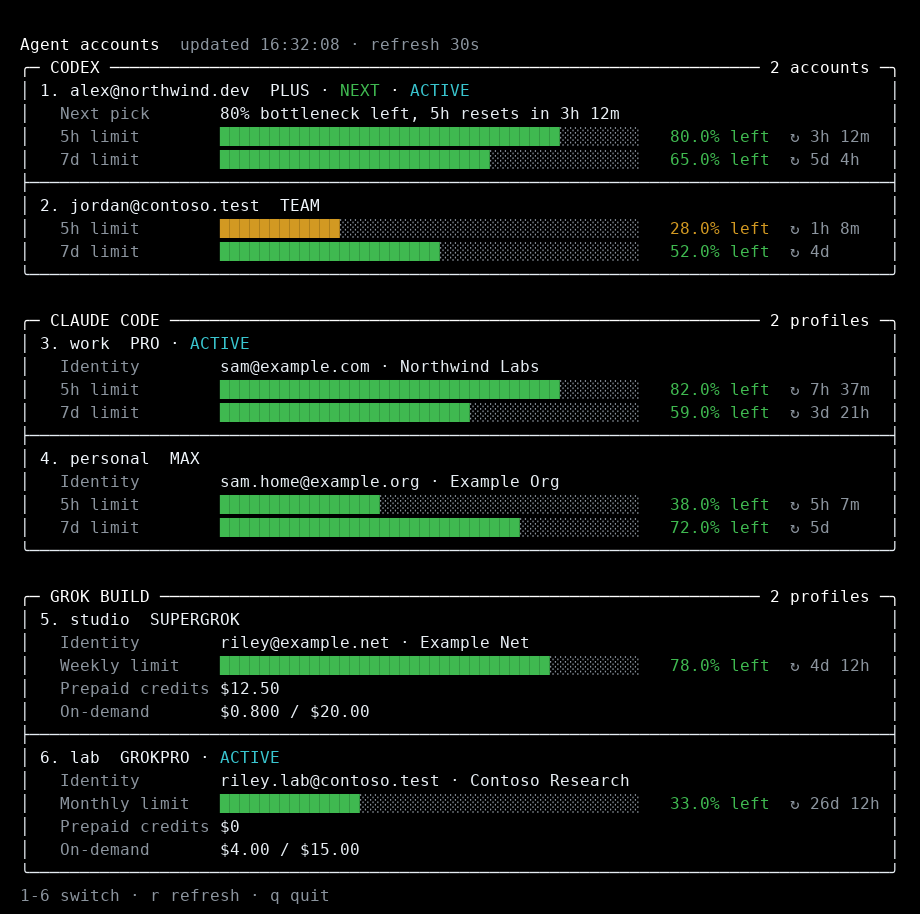
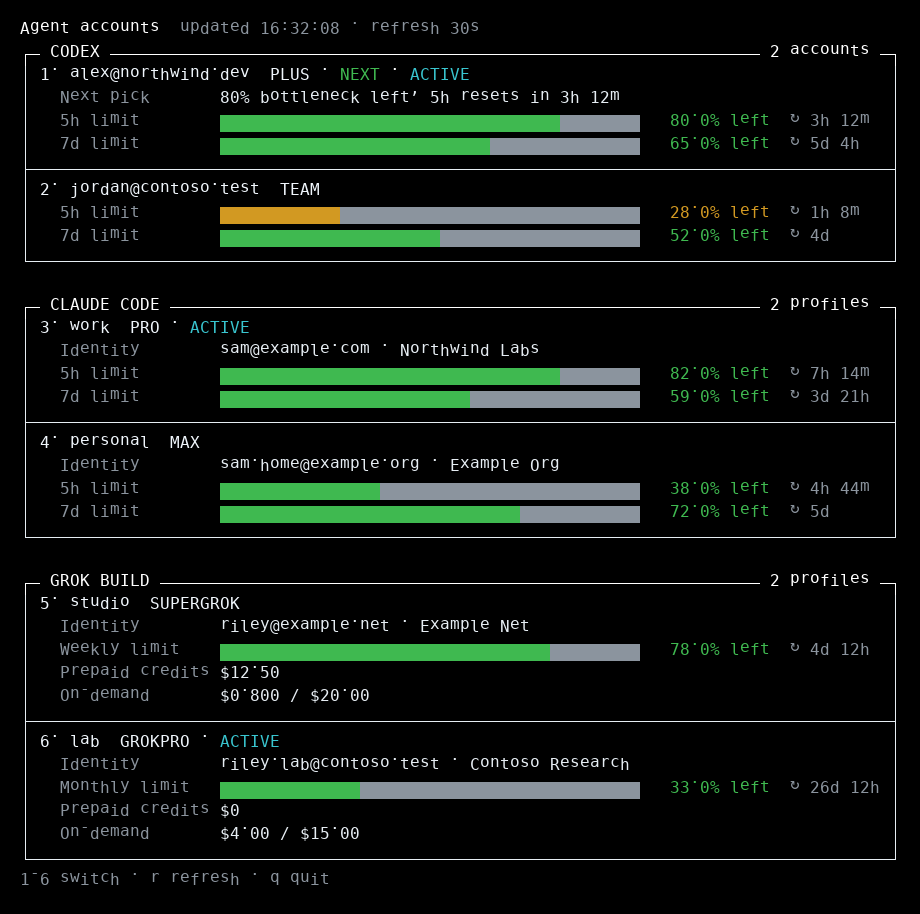
Align quota bars with a uniform block glyph
Fill and empty cells now share one character so every bar has the same
visual width across accounts and providers. Screenshots paint those
cells as rectangles and box drawing as a line grid.

diff --git a/src/display.ts b/src/display.ts
@@ -112,12 +112,19 @@ function statusColor(remainingPercent: number): string {
   return GREEN;
 }
 
-/** Render a quota bar whose filled portion represents quota remaining. */
+/**
+ * Render a quota bar whose filled portion represents quota remaining.
+ * Fill and empty use the same glyph so every bar has the same visual width;
+ * without color the empty cells fall back to a lighter shade.
+ */
 function renderBar(usedPercent: number, width: number): string {
   const remaining = Math.max(0, Math.min(100, 100 - usedPercent));
   const filled = Math.round((remaining / 100) * Math.max(0, width));
   const empty = Math.max(0, width - filled);
-  return `${statusColor(remaining)}${"█".repeat(filled)}${DIM}${"░".repeat(empty)}${RESET}`;
+  const head = "█".repeat(filled);
+  const tail = (COLOR_ENABLED ? "█" : "░").repeat(empty);
+  if (!COLOR_ENABLED) return `${head}${tail}`;
+  return `${statusColor(remaining)}${head}${RESET}${DIM}${tail}${RESET}`;
 }
 
 interface QuotaRow {
@@ -141,10 +148,10 @@ function quotaBarWidth(contentWidth: number, labelWidth: number, resetWidth: num
 
 function measureLayout(labels: string[], resets: (string | undefined)[], width: number): ColumnLayout {
   let labelWidth = 8;
-  for (const label of labels) labelWidth = Math.max(labelWidth, label.length);
+  for (const label of labels) labelWidth = Math.max(labelWidth, visibleLength(label));
   labelWidth = Math.min(labelWidthCap(width), labelWidth);
   let resetWidth = 0;
-  for (const reset of resets) resetWidth = Math.max(resetWidth, resetLabel(reset).length);
+  for (const reset of resets) resetWidth = Math.max(resetWidth, visibleLength(resetLabel(reset)));
   const contentWidth = Math.max(8, width - 4);
   if (quotaBarWidth(contentWidth, labelWidth, resetWidth) < 4) resetWidth = 0;
   return { labelWidth, resetWidth };
@@ -153,14 +160,14 @@ function measureLayout(labels: string[], resets: (string | undefined)[], width: 
 function printQuota(frame: Frame, row: QuotaRow, layout: ColumnLayout): void {
   const contentWidth = frame.width - 4;
   const remaining = Math.max(0, 100 - row.usedPercent);
-  const displayLabel = row.label.length > layout.labelWidth ? "Usage" : row.label;
-  if (row.label.length > layout.labelWidth) printDetail(frame, "Limit", row.label, layout);
+  const displayLabel = visibleLength(row.label) > layout.labelWidth ? "Usage" : row.label;
+  if (visibleLength(row.label) > layout.labelWidth) printDetail(frame, "Limit", row.label, layout);
   const prefix = `  ${fitLabel(displayLabel, layout.labelWidth)} `;
   const percent = `${remaining.toFixed(1).padStart(5)}% left`;
-  const barWidth = Math.max(3, quotaBarWidth(contentWidth, layout.labelWidth, layout.resetWidth));
   const reset = layout.resetWidth > 0
-    ? `${" ".repeat(RESET_GAP)}${resetLabel(row.resetsIn).padEnd(layout.resetWidth)}`
+    ? `${" ".repeat(RESET_GAP)}${padVisible(resetLabel(row.resetsIn), layout.resetWidth)}`
     : "";
+  const barWidth = Math.max(3, contentWidth - visibleLength(prefix) - BAR_GAP - visibleLength(percent) - visibleLength(reset));
   frame.content(
     `${DIM}${prefix}${RESET}${renderBar(row.usedPercent, barWidth)}${" ".repeat(BAR_GAP)}${statusColor(remaining)}${percent}${RESET}${DIM}${reset}${RESET}`,
   );

diff --git a/dist/display.js b/dist/display.js
@@ -82,12 +82,20 @@ function statusColor(remainingPercent) {
         return YELLOW;
     return GREEN;
 }
-/** Render a quota bar whose filled portion represents quota remaining. */
+/**
+ * Render a quota bar whose filled portion represents quota remaining.
+ * Fill and empty use the same glyph so every bar has the same visual width;
+ * without color the empty cells fall back to a lighter shade.
+ */
 function renderBar(usedPercent, width) {
     const remaining = Math.max(0, Math.min(100, 100 - usedPercent));
     const filled = Math.round((remaining / 100) * Math.max(0, width));
     const empty = Math.max(0, width - filled);
-    return `${statusColor(remaining)}${"█".repeat(filled)}${DIM}${"░".repeat(empty)}${RESET}`;
+    const head = "█".repeat(filled);
+    const tail = (COLOR_ENABLED ? "█" : "░").repeat(empty);
+    if (!COLOR_ENABLED)
+        return `${head}${tail}`;
+    return `${statusColor(remaining)}${head}${RESET}${DIM}${tail}${RESET}`;
 }
 function resetLabel(resetsIn) {
     return resetsIn ? `↻ ${resetsIn}` : "";
@@ -102,11 +110,11 @@ function quotaBarWidth(contentWidth, labelWidth, resetWidth) {
 function measureLayout(labels, resets, width) {
     let labelWidth = 8;
     for (const label of labels)
-        labelWidth = Math.max(labelWidth, label.length);
+        labelWidth = Math.max(labelWidth, visibleLength(label));
     labelWidth = Math.min(labelWidthCap(width), labelWidth);
     let resetWidth = 0;
     for (const reset of resets)
-        resetWidth = Math.max(resetWidth, resetLabel(reset).length);
+        resetWidth = Math.max(resetWidth, visibleLength(resetLabel(reset)));
     const contentWidth = Math.max(8, width - 4);
     if (quotaBarWidth(contentWidth, labelWidth, resetWidth) < 4)
         resetWidth = 0;
@@ -115,15 +123,15 @@ function measureLayout(labels, resets, width) {
 function printQuota(frame, row, layout) {
     const contentWidth = frame.width - 4;
     const remaining = Math.max(0, 100 - row.usedPercent);
-    const displayLabel = row.label.length > layout.labelWidth ? "Usage" : row.label;
-    if (row.label.length > layout.labelWidth)
+    const displayLabel = visibleLength(row.label) > layout.labelWidth ? "Usage" : row.label;
+    if (visibleLength(row.label) > layout.labelWidth)
         printDetail(frame, "Limit", row.label, layout);
     const prefix = `  ${fitLabel(displayLabel, layout.labelWidth)} `;
     const percent = `${remaining.toFixed(1).padStart(5)}% left`;
-    const barWidth = Math.max(3, quotaBarWidth(contentWidth, layout.labelWidth, layout.resetWidth));
     const reset = layout.resetWidth > 0
-        ? `${" ".repeat(RESET_GAP)}${resetLabel(row.resetsIn).padEnd(layout.resetWidth)}`
+        ? `${" ".repeat(RESET_GAP)}${padVisible(resetLabel(row.resetsIn), layout.resetWidth)}`
         : "";
+    const barWidth = Math.max(3, contentWidth - visibleLength(prefix) - BAR_GAP - visibleLength(percent) - visibleLength(reset));
     frame.content(`${DIM}${prefix}${RESET}${renderBar(row.usedPercent, barWidth)}${" ".repeat(BAR_GAP)}${statusColor(remaining)}${percent}${RESET}${DIM}${reset}${RESET}`);
     if (layout.resetWidth === 0 && row.resetsIn) {
         printDetail(frame, "", `↻ resets in ${row.resetsIn}`, layout);

diff --git a/scripts/ansi-to-png.py b/scripts/ansi-to-png.py
@@ -30,6 +30,32 @@ SGR_COLOR = {
     33: "yellow",
     36: "cyan",
     37: "white",
+    90: "dim",
+}
+
+# Same-sized cells for every density so quota bars share left and right edges.
+BLOCK_DENSITY = {
+    "█": 1.0,
+    "▓": 0.75,
+    "▒": 0.45,
+    "░": 0.22,
+}
+
+# Light/heavy box drawing mapped onto a cell-centered line grid.
+BOX_KIND = {
+    "─": "h",
+    "━": "h",
+    "│": "v",
+    "┃": "v",
+    "╭": "tl",
+    "╮": "tr",
+    "╰": "bl",
+    "╯": "br",
+    "├": "vr",
+    "┤": "vl",
+    "┬": "hb",
+    "┴": "ht",
+    "┼": "x",
 }
 
 
@@ -75,30 +101,85 @@ def cell_color(style: dict) -> tuple[int, int, int, int]:
     return PALETTE[style["color"]]
 
 
-def measure_font(font: ImageFont.FreeTypeFont) -> tuple[int, int, int]:
+def mix(fg: tuple[int, int, int, int], bg: tuple[int, int, int, int], t: float) -> tuple[int, int, int, int]:
+    return tuple(int(f * t + b * (1 - t)) for f, b in zip(fg[:3], bg[:3])) + (255,)
+
+
+def measure_font(font: ImageFont.FreeTypeFont) -> tuple[int, int]:
     ascent, descent = font.getmetrics()
-    bbox = font.getbbox("M")
-    return bbox[2] - bbox[0], ascent + descent + 4, ascent
+    cell_w = max(1, round(font.getlength("M")))
+    return cell_w, ascent + descent + 4
+
+
+def draw_box(
+    draw: ImageDraw.ImageDraw,
+    x: int,
+    y: int,
+    cell_w: int,
+    cell_h: int,
+    kind: str,
+    color: tuple[int, int, int, int],
+) -> None:
+    x1 = x + cell_w - 1
+    y1 = y + cell_h - 1
+    cx = x + cell_w // 2
+    cy = y + cell_h // 2
+
+    def hline(x0: int, x2: int) -> None:
+        draw.line([(x0, cy), (x2, cy)], fill=color, width=1)
+
+    def vline(y0: int, y2: int) -> None:
+        draw.line([(cx, y0), (cx, y2)], fill=color, width=1)
+
+    if "h" in kind or kind in {"tl", "tr", "bl", "br", "vl", "vr", "x"}:
+        if kind == "h":
+            hline(x, x1)
+        elif kind in {"tl", "bl", "vr"}:
+            hline(cx, x1)
+        elif kind in {"tr", "br", "vl"}:
+            hline(x, cx)
+        elif kind in {"ht", "hb", "x"}:
+            hline(x, x1)
+    if "v" in kind or kind in {"tl", "tr", "bl", "br", "ht", "hb", "x"}:
+        if kind == "v":
+            vline(y, y1)
+        elif kind in {"tl", "tr", "hb"}:
+            vline(cy, y1)
+        elif kind in {"bl", "br", "ht"}:
+            vline(y, cy)
+        elif kind in {"vl", "vr", "x"}:
+            vline(y, y1)
 
 
 def render_frame(lines: list[str], dest: Path) -> None:
     font = ImageFont.truetype(FONT_PATH, FONT_SIZE)
-    cell_w, cell_h, ascent = measure_font(font)
+    cell_w, cell_h = measure_font(font)
     cols = max((len(parse_ansi(line)) for line in lines), default=1)
     rows = max(len(lines), 1)
     pad = 20
     im = Image.new("RGBA", (cols * cell_w + pad * 2, rows * cell_h + pad * 2), PALETTE["bg"])
     draw = ImageDraw.Draw(im)
+    inset = 3
     for row, line in enumerate(lines):
         for col, (ch, style) in enumerate(parse_ansi(line)):
+            x = pad + col * cell_w
+            y = pad + row * cell_h
+            color = cell_color(style)
+            density = BLOCK_DENSITY.get(ch)
+            if density is not None:
+                fill = color if density >= 0.99 else mix(color, PALETTE["bg"], density)
+                draw.rectangle(
+                    [x, y + inset, x + cell_w - 1, y + cell_h - 1 - inset],
+                    fill=fill,
+                )
+                continue
+            kind = BOX_KIND.get(ch)
+            if kind is not None:
+                draw_box(draw, x, y, cell_w, cell_h, kind, color)
+                continue
             if ch == " ":
                 continue
-            draw.text(
-                (pad + col * cell_w, pad + row * cell_h + ascent),
-                ch,
-                font=font,
-                fill=cell_color(style),
-            )
+            draw.text((x, y + 2), ch, font=font, fill=color, anchor="lt")
     im.save(dest)
 
 
